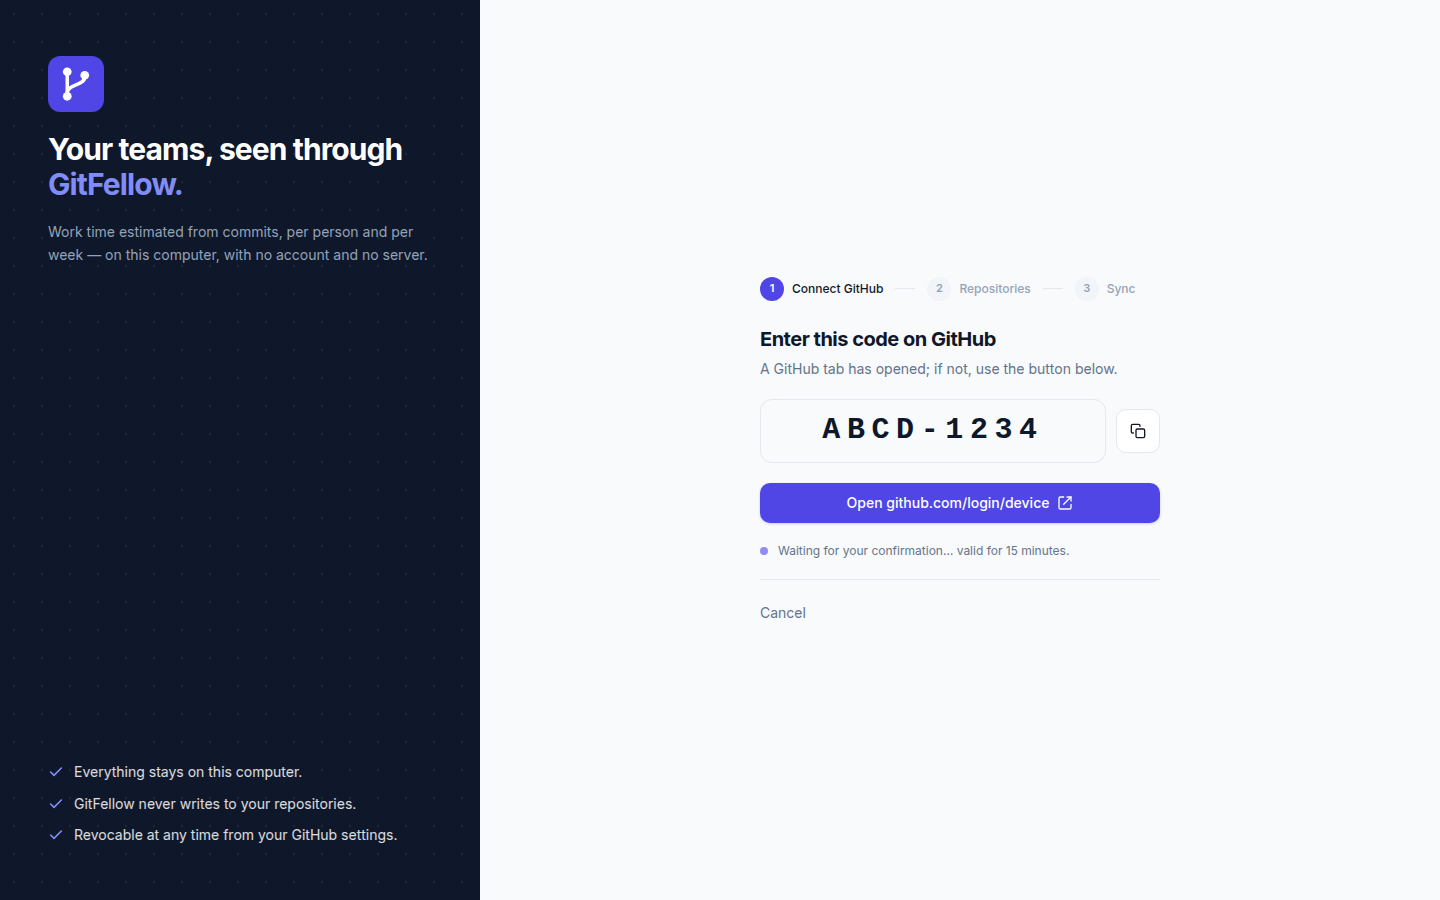
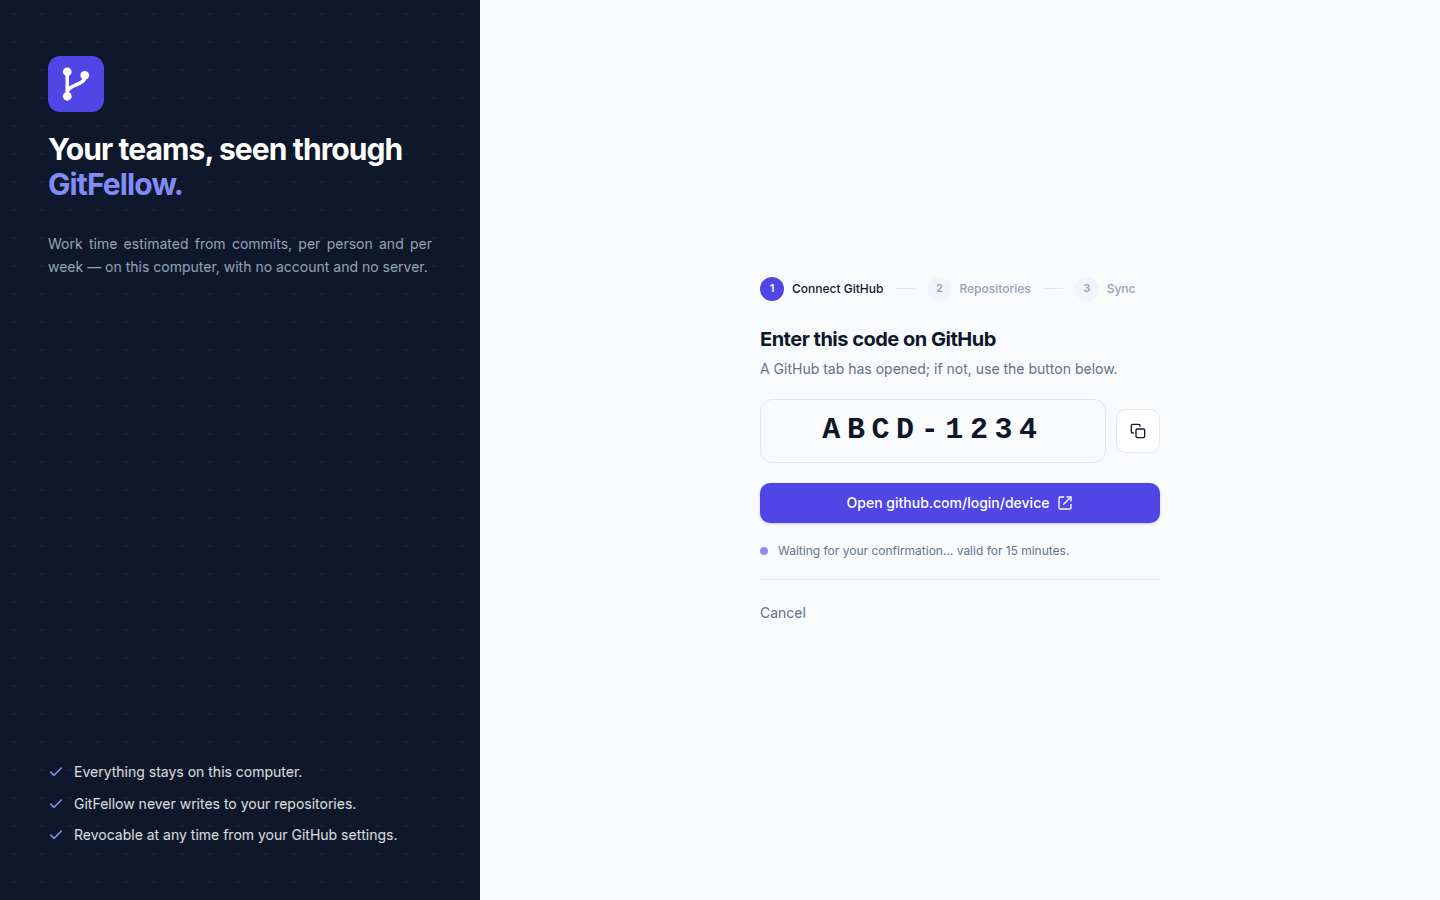
Assistant : deux paragraphes justifiés, et de l'air sous le titre
L'accroche du panneau respire : 32 px sous le titre au lieu de 20, et
justifiée sur la largeur du panneau. À droite, la phrase d'introduction
rejoint la note sous le bouton — justifiée elle aussi, sur les 400 px
exacts du bouton, pour que les trois blocs aient le même aplomb.

Claude-Session: https://claude.ai/code/session_01STUNUM5TqyfuURKzmXqGVv

Changed region(s): [[0.0312, 0.2489, 0.3125, 0.3111]]

diff --git a/src/components/setup/SetupFrame.tsx b/src/components/setup/SetupFrame.tsx
@@ -30,7 +30,8 @@ export function SetupFrame({ step, children }: { step: SetupStep; children: Reac
           <h1 className="text-[26px] leading-[1.15] font-bold tracking-[-0.03em] md:text-3xl">
             {m.setup.headline} <span className="text-accent-dark">{m.setup.headlineBrand}</span>
           </h1>
-          <p className="text-sm leading-relaxed text-muted">{m.setup.tagline}</p>
+          {/* Un peu d'air sous le titre : la phrase se lit comme une suite, pas comme un sous-titre collé. */}
+          <p className="mt-3 text-justify text-sm leading-relaxed text-muted">{m.setup.tagline}</p>
         </div>
         <ul className="relative flex flex-col gap-3">
           {guarantees.map((text) => (

diff --git a/src/components/setup/ConnectGitHub.tsx b/src/components/setup/ConnectGitHub.tsx
@@ -101,7 +101,8 @@ export function ConnectGitHub({ deviceFlow }: { deviceFlow: boolean }) {
         <>
           <div>
             <h2 className="text-xl font-bold tracking-tight">{g.connectTitle}</h2>
-            <p className="mt-1.5 text-sm text-ink-2">{g.connectIntro}</p>
+            {/* Justifiée sur la largeur du bouton, comme la note qui le suit. */}
+            <p className="mt-1.5 text-justify text-sm text-ink-2">{g.connectIntro}</p>
           </div>
           {phase.error ? <Notice kind="error">{phase.error}</Notice> : null}
           <button type="button" onClick={start} disabled={starting} className={`${btnPrimary} h-11 w-full`}>
